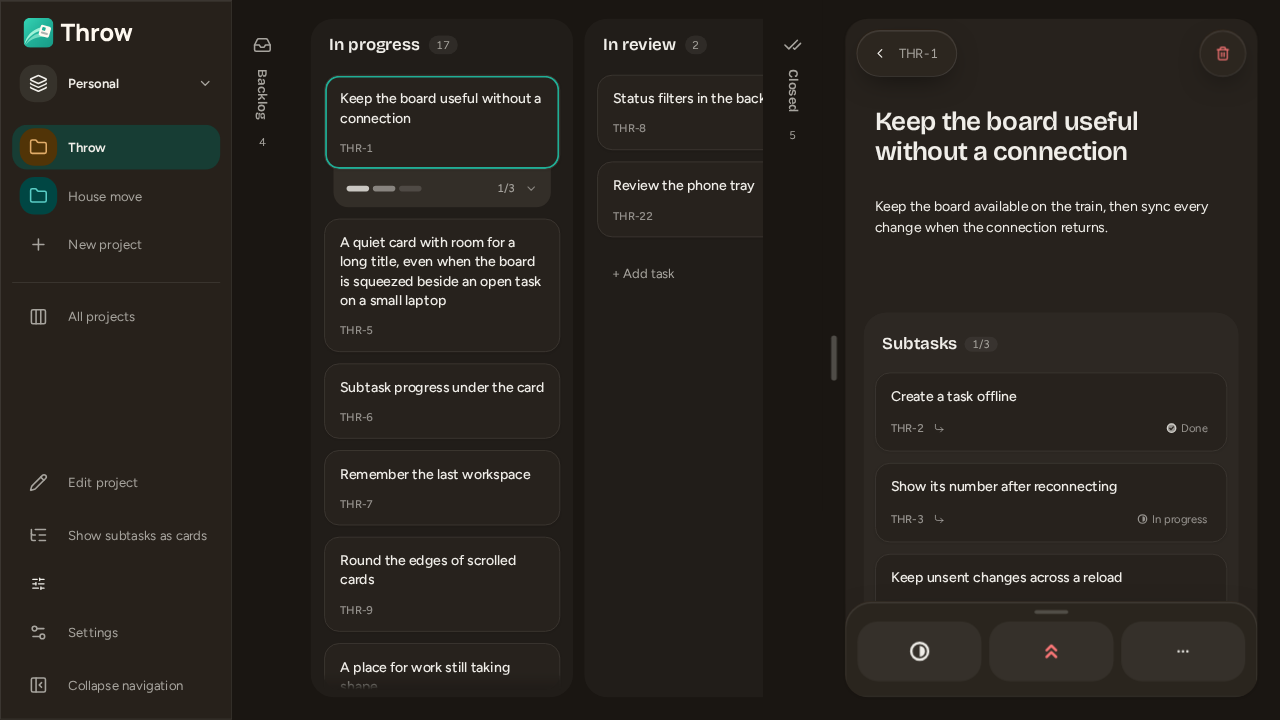
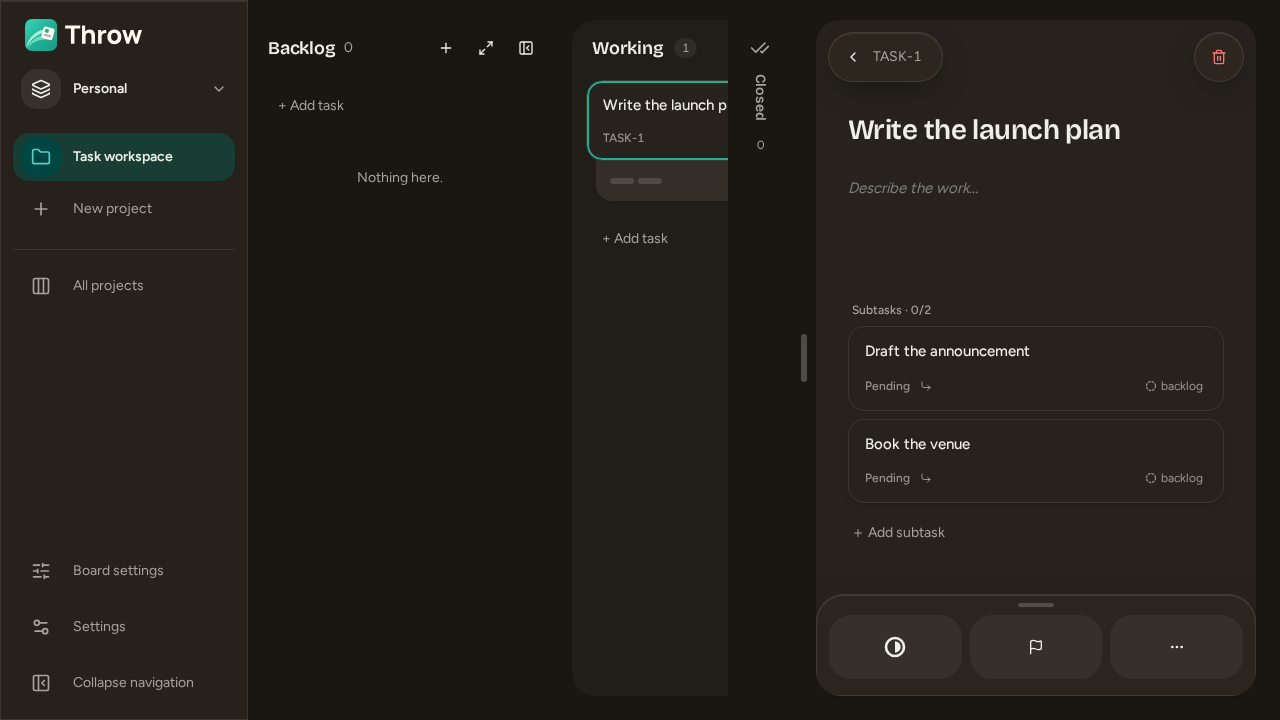
fix(board): hide desktop-only settings on phones and list subtasks flush
Column backgrounds and the backlog and closed rail placement only shape
the desktop board, so a phone no longer offers them. A task's subtasks
sit flush with the rest of the pane under a small heading, as Catch lists
a note's links, instead of on a panel of their own.

diff --git a/apps/web/src/components/Board/BoardSettingsPanel.tsx b/apps/web/src/components/Board/BoardSettingsPanel.tsx
@@ -3,6 +3,7 @@ import { motion } from 'motion/react';
 import { Popover } from 'radix-ui';
 import type { ReactNode } from 'react';
 import { IconButton } from '@/components/IconButton/IconButton';
+import { useMedia } from '@/lib/media';
 import { springs } from '@/lib/motion';
 import { useThemePreference } from '@/lib/theme';
 import { cn } from '@/lib/utils';
@@ -166,6 +167,8 @@ export function BoardSettingsControls({ includeTheme = true }: { includeTheme?: 
   const state = board.use();
   const [settings, setSettings] = useBoardSettings();
   const [theme, setTheme] = useThemePreference();
+  // Columns and side rails are desktop layout; a phone has neither to change.
+  const phone = useMedia('(max-width: 767px)');
   const set = <K extends keyof BoardSettings>(key: K, value: BoardSettings[K]) =>
     setSettings({ ...settings, [key]: value });
   return (
@@ -191,13 +194,15 @@ export function BoardSettingsControls({ includeTheme = true }: { includeTheme?: 
           onChange={(value) => set('cardPriority', value)}
         />
       </Row>
-      <Row label="Column backgrounds">
-        <Switch
-          label="Column backgrounds"
-          checked={settings.surfaces}
-          onChange={(value) => set('surfaces', value)}
-        />
-      </Row>
+      {!phone && (
+        <Row label="Column backgrounds">
+          <Switch
+            label="Column backgrounds"
+            checked={settings.surfaces}
+            onChange={(value) => set('surfaces', value)}
+          />
+        </Row>
+      )}
       <Row label="Scrollbars" hint="Off, a faded edge shows where a list goes on.">
         <Switch
           label="Scrollbars"
@@ -219,28 +224,29 @@ export function BoardSettingsControls({ includeTheme = true }: { includeTheme?: 
           onChange={(value) => set('heldColumn', value)}
         />
       </Row>
-      {(
-        [
-          ['backlogRail', 'Backlog'],
-          ['closedRail', 'Closed'],
-        ] as const
-      ).map(([key, label]) => (
-        <Row
-          key={key}
-          label={label}
-          hint="Sticky stays at the window's edge. With board scrolls with the columns."
-        >
-          <Segmented
+      {!phone &&
+        (
+          [
+            ['backlogRail', 'Backlog'],
+            ['closedRail', 'Closed'],
+          ] as const
+        ).map(([key, label]) => (
+          <Row
+            key={key}
             label={label}
-            value={settings[key]}
-            options={[
-              ['sticky', 'Sticky'],
-              ['bound', 'With board'],
-            ]}
-            onChange={(value) => set(key, value)}
-          />
-        </Row>
-      ))}
+            hint="Sticky stays at the window's edge. With board scrolls with the columns."
+          >
+            <Segmented
+              label={label}
+              value={settings[key]}
+              options={[
+                ['sticky', 'Sticky'],
+                ['bound', 'With board'],
+              ]}
+              onChange={(value) => set(key, value)}
+            />
+          </Row>
+        ))}
       {includeTheme && (
         <Row label="Theme">
           <Segmented

diff --git a/apps/web/src/components/TaskDetails/TaskDetails.tsx b/apps/web/src/components/TaskDetails/TaskDetails.tsx
@@ -164,20 +164,12 @@ export function TaskDetails({
             <TaskTagList task={task} tags={tags} />
             <TaskDescription task={task} />
             {task.parentId === null && (
-              <section
-                aria-label="Subtasks"
-                className="-mx-3 mt-8 rounded-3xl bg-foreground/[0.035] p-3"
-              >
-                <div className="mb-2 flex min-h-11 items-center gap-2 px-2">
-                  <h2 className="font-display font-semibold text-lg tracking-[-0.01em]">
-                    Subtasks
-                  </h2>
-                  <span className="rounded-full bg-foreground/[0.06] px-2 text-muted-foreground text-xs tabular-nums">
-                    {done}/{children.length}
-                  </span>
-                  <span className="flex-1" />
-                </div>
-                <div className="flex flex-col gap-3">
+              // Flush with the task, as Catch lists a note's links below it.
+              <section aria-label="Subtasks" className="mt-8 flex flex-col gap-2">
+                <h2 className="px-1 font-medium text-muted-foreground text-xs tabular-nums">
+                  {children.length ? `Subtasks · ${done}/${children.length}` : 'Subtasks'}
+                </h2>
+                <div className="flex flex-col gap-2">
                   {children.map((child) => {
                     const childStatus = statuses.find((row) => row.id === child.statusId);
                     return (
@@ -211,7 +203,6 @@ export function TaskDetails({
                 </div>
                 {adding ? (
                   <form
-                    className="mt-3"
                     onSubmit={(event) => {
                       event.preventDefault();
                       if (!title.trim()) return;
@@ -255,7 +246,7 @@ export function TaskDetails({
                   <button
                     type="button"
                     onClick={() => setAdding(true)}
-                    className="mt-2 flex min-h-11 w-full items-center gap-1 rounded-xl px-3 text-muted-foreground text-sm outline-none hover:bg-foreground/[0.04] focus-visible:ring-[3px] focus-visible:ring-ring/60"
+                    className="flex min-h-11 w-full items-center gap-1 rounded-xl px-1 text-muted-foreground text-sm outline-none hover:text-foreground focus-visible:ring-[3px] focus-visible:ring-ring/60"
                   >
                     <Plus className="size-3" />
                     Add subtask

diff --git a/e2e/board.spec.ts b/e2e/board.spec.ts
@@ -400,10 +400,14 @@ test('rails, galleries, board settings and the phone tray keep their distinct la
   await page.getByRole('switch', { name: 'Priority labels', exact: true }).click();
   await page.getByRole('switch', { name: 'Priority on cards', exact: true }).click();
   await page.getByRole('switch', { name: 'Scrollbars', exact: true }).click();
-  await page
+  const backlogRail = page
     .getByRole('group', { name: 'Backlog', exact: true })
-    .getByRole('button', { name: 'With board' })
-    .click();
+    .getByRole('button', { name: 'With board' });
+  if (isMobile) {
+    // A phone has no columns or side rails for these to change.
+    await expect(backlogRail).toHaveCount(0);
+    await expect(page.getByRole('switch', { name: 'Column backgrounds' })).toHaveCount(0);
+  } else await backlogRail.click();
   await page.keyboard.press('Escape');
   await expect(page.locator('html')).not.toHaveAttribute('data-hide-scrollbars');
   await page.reload();
@@ -412,11 +416,7 @@ test('rails, galleries, board settings and the phone tray keep their distinct la
     'aria-checked',
     'true',
   );
-  await expect(
-    page
-      .getByRole('group', { name: 'Backlog', exact: true })
-      .getByRole('button', { name: 'With board' }),
-  ).toHaveAttribute('aria-pressed', 'true');
+  if (!isMobile) await expect(backlogRail).toHaveAttribute('aria-pressed', 'true');
   await page.keyboard.press('Escape');
   await openBacklog(page, isMobile);
   if (isMobile) {

diff --git a/docs/spec.md b/docs/spec.md
@@ -266,7 +266,8 @@ How a held card behaves, and why, is recorded in
 
 The settings page has a section for how the board looks and behaves. The board settings
 button opens the same options in the [drawer](#the-drawer) at full height on a phone, and in
-a panel from the rail on desktop, sized to the window. These are kept on the device.
+a panel from the rail on desktop, sized to the window. These are kept on the device. Column backgrounds and the
+rails' placement shape desktop columns, so a phone does not show them.
 
 | Setting | Default | Effect |
 | --- | --- | --- |
@@ -420,8 +421,8 @@ view), comments and activity.
   when the task view closes or switches tasks; drafts survive reloads and conflicts.
 - The top toolbars follow Catch: back and the parent/task identifier breadcrumb on the
   left, trash/restore on the right.
-- Subtasks sit on the task pane as a board column of the same task cards, with status
-  controls and an add action. A subtask opens in the same view, with its parent in the
+- Subtasks sit on the task pane as a flush list of the same task cards, as Catch lists a
+  note's links below it, with status controls and an add action. A subtask opens in the same view, with its parent in the
   breadcrumb. Opened from its parent's pane, it goes back there: Back, Escape, a pull and
   the breadcrumb return to the parent, and on a phone the subtask grows out of its card
   over the parent's pane and shrinks back into it.
